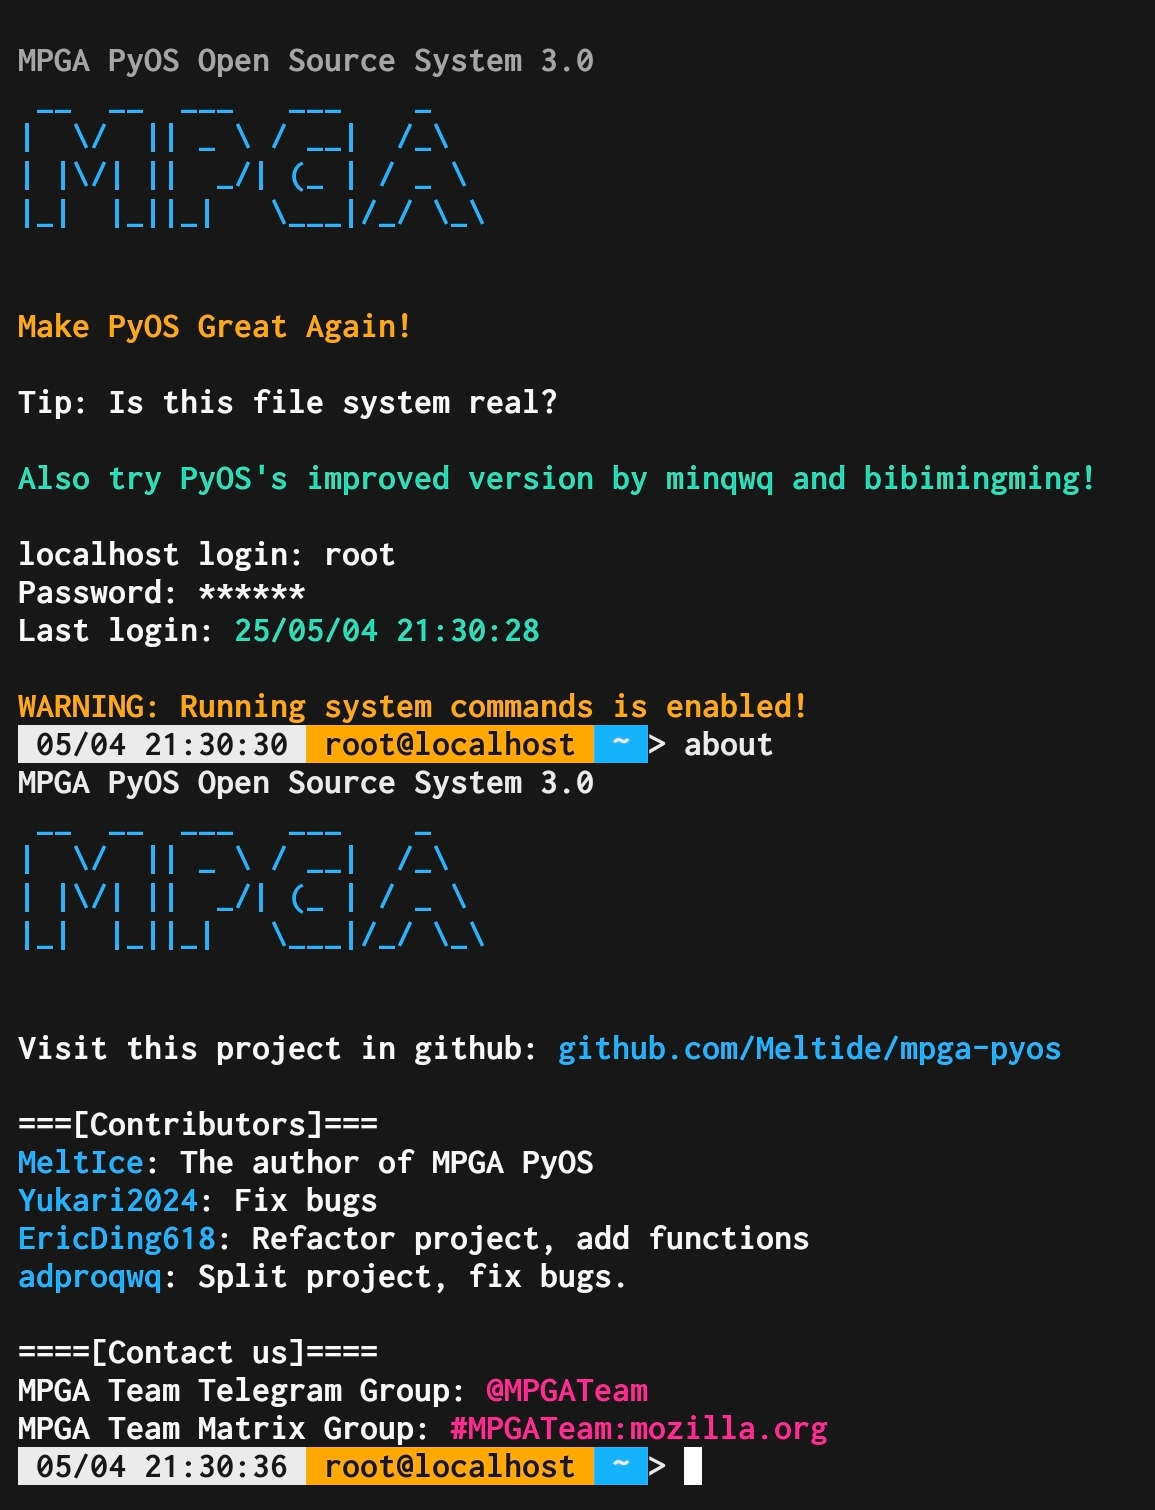
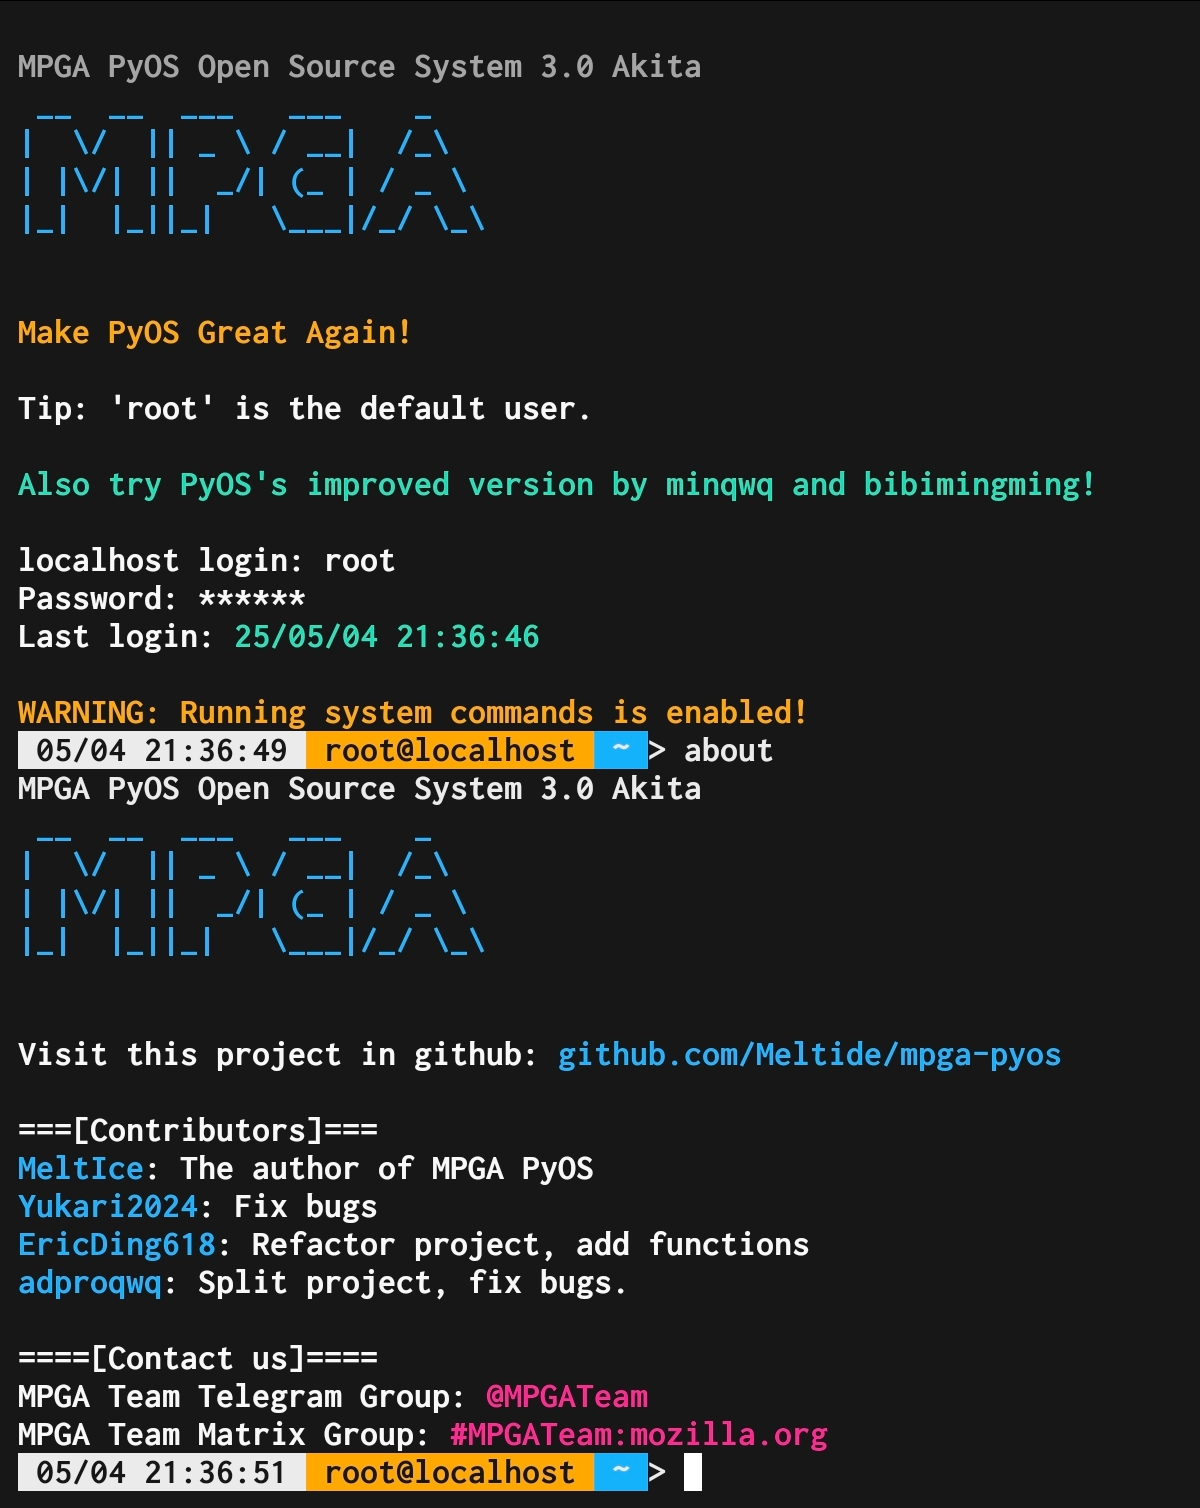
添加版本代号

diff --git a/pyosInit.py b/pyosInit.py
@@ -21,7 +21,7 @@ class Init:  # 初始化
         self.hostname=HOSTNAME
         self.allow_system_commands = ALLOW_SYSTEM_COMMANDS
         self.show_error_details = SHOW_ERROR_DETAILS
-        self.version = "3.0"  # 系统版本
+        self.version = "3.0 Akita"  # 系统版本
         self.shell_version = "2.0.0"  # Shell 版本
         self.core_version = "20250504"  # 核心版本
         self.tips_list = [  # 提示列表
